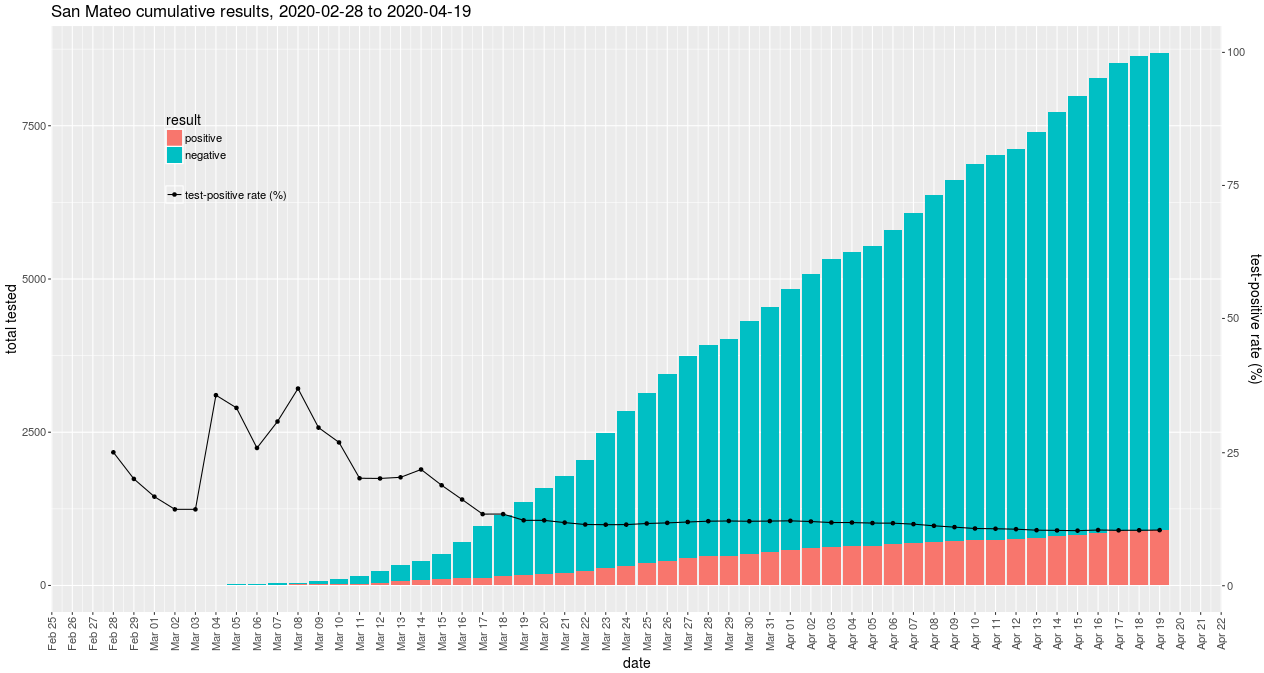
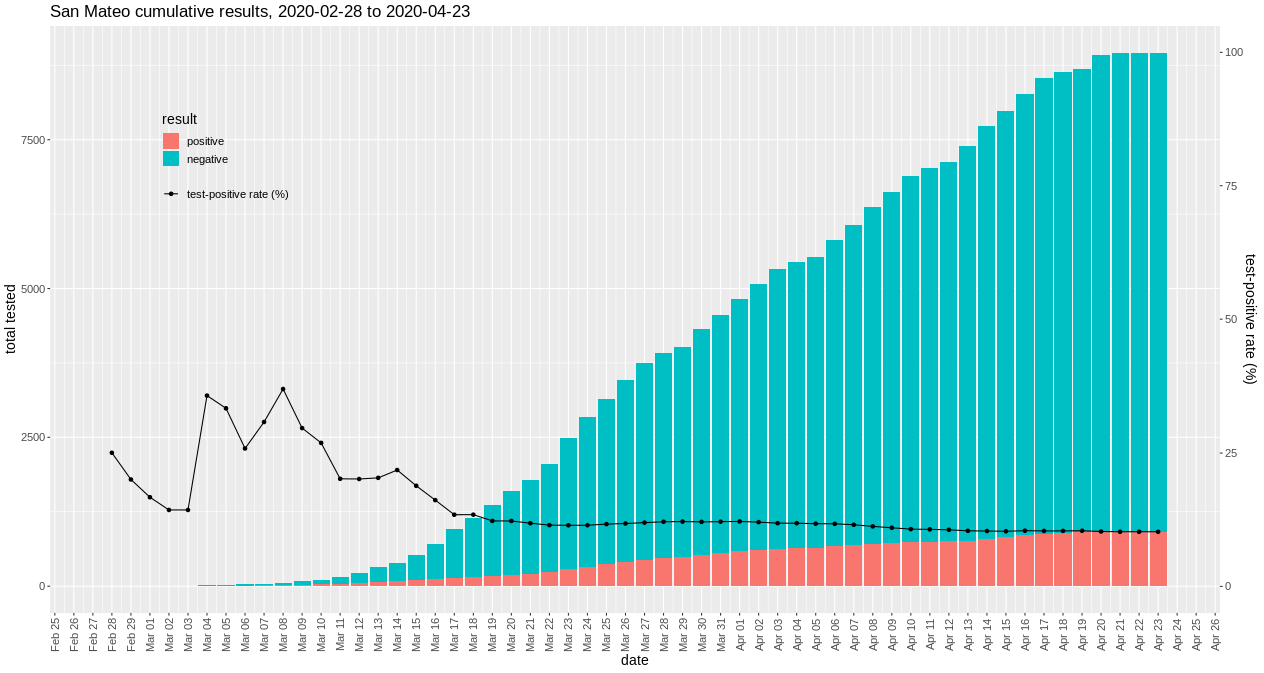
Update, and add Santa Cruz

diff --git a/README.md b/README.md
@@ -9,9 +9,11 @@ Daily test results by county:
 ![alt text](https://github.com/aaronferrucci/c19_data/blob/ca-counties/images/San_Francisco_daily_test_results.png "San Francisco daily test results")
 ![alt text](https://github.com/aaronferrucci/c19_data/blob/ca-counties/images/San_Mateo_daily_test_results.png "San Mateo daily test results")
 ![alt text](https://github.com/aaronferrucci/c19_data/blob/ca-counties/images/Santa_Clara_daily_test_results.png "Santa Clara daily test results")
+![alt text](https://github.com/aaronferrucci/c19_data/blob/ca-counties/images/Santa_Cruz_daily_test_results.png "Santa Cruz daily test results")
 
 Cumulative test results by county:
 ![alt text](https://github.com/aaronferrucci/c19_data/blob/ca-counties/images/Contra_Costa_cumulative_test_results.png "Contra Costa cumulative test results")
 ![alt text](https://github.com/aaronferrucci/c19_data/blob/ca-counties/images/San_Francisco_cumulative_test_results.png "San Francisco cumulative test results")
 ![alt text](https://github.com/aaronferrucci/c19_data/blob/ca-counties/images/San_Mateo_cumulative_test_results.png "San Mateo cumulative test results")
 ![alt text](https://github.com/aaronferrucci/c19_data/blob/ca-counties/images/Santa_Clara_cumulative_test_results.png "Santa Clara cumulative test results")
+![alt text](https://github.com/aaronferrucci/c19_data/blob/ca-counties/images/Santa_Cruz_cumulative_test_results.png "Santa Cruz cumulative test results")
